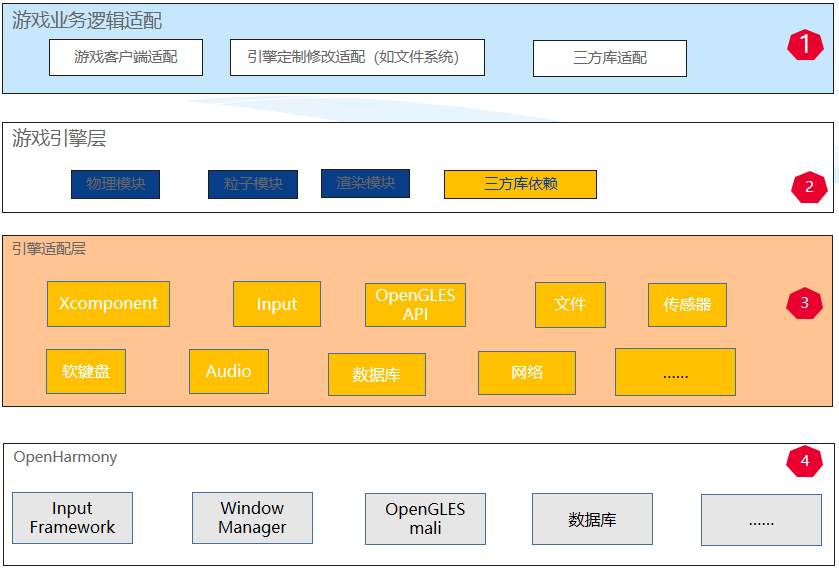
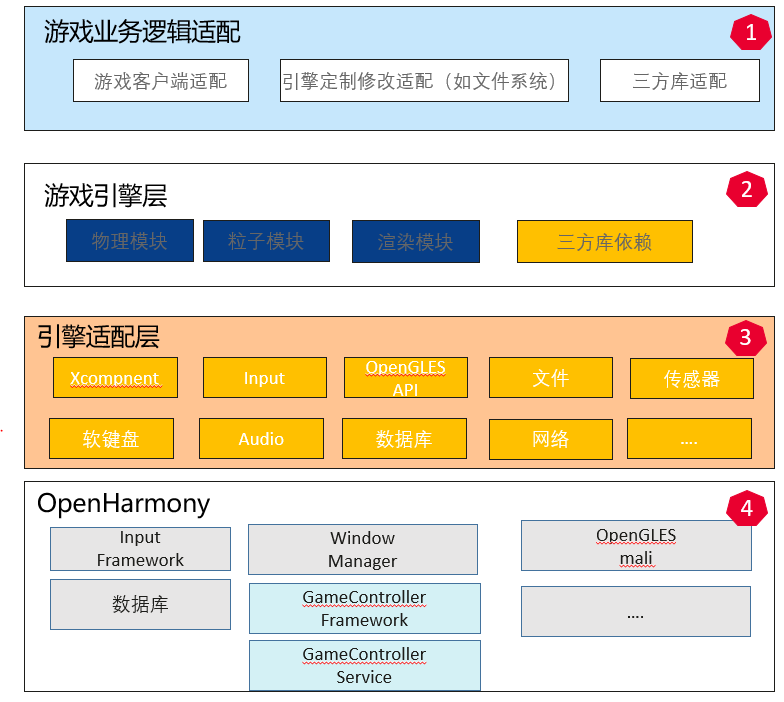
!1734 在sig_gaming下新增game_controller_framework和game_controller_service部件 * 在sig_gaming下新增game_controller_framework和game_controller_service部件 * 在sig_gaming下新增game_controller_framework和game_controller_service部件 * 在sig_gaming下新增game_controller_framework和game_controller_service部件 * 在sig_gaming下新增game_con

diff --git a/sig/sig_gaming/sig_gaming_cn.md b/sig/sig_gaming/sig_gaming_cn.md
@@ -13,12 +13,15 @@
 
 ![OpenHarmony文档概览](figures/gaming_overview.png)
 
+
 ## 代码仓
 
-|部件名称|部件功能描述|部件仓名称|
-| ------------ | ------------ |------------ |
-|cocos2dx|开源、轻量的跨平台游戏引擎|cocos2dx|
-|third_party_cocos2d|开源、轻量的跨平台游戏引擎|third_party_cocos2d|
+| 部件名称                          |部件功能描述| 部件仓名称                          |
+|-------------------------------| ------------ |--------------------------------|
+| cocos2dx                      |开源、轻量的跨平台游戏引擎| cocos2dx                       |
+| third_party_cocos2d           |开源、轻量的跨平台游戏引擎| third_party_cocos2d            |
+| game_controller_framework |GameController用于给游戏开发者提供游戏外设接入能力的API以及给设备厂商提供输入转触控能力。其中game_controller_framework为GameController的framework层，用于提供游戏外设上下线监听和外设输入事件监听；以及给设备厂商提供输入转触控的实现能力。| game_game_controller_framework |
+| game_controller_service  |GameController用于给游戏开发者提供游戏外设接入能力以及给设备厂商提供输入转触控能力。其中game_controller_servcei为GameController的CoreService层，通过提供InnerAPI给设备厂商，让设备厂商可以实现对外设设备的认证信息的管理以及对输入转触控的模版管理。| game_game_controller_service   |
 
 ## SIG组成员
 
